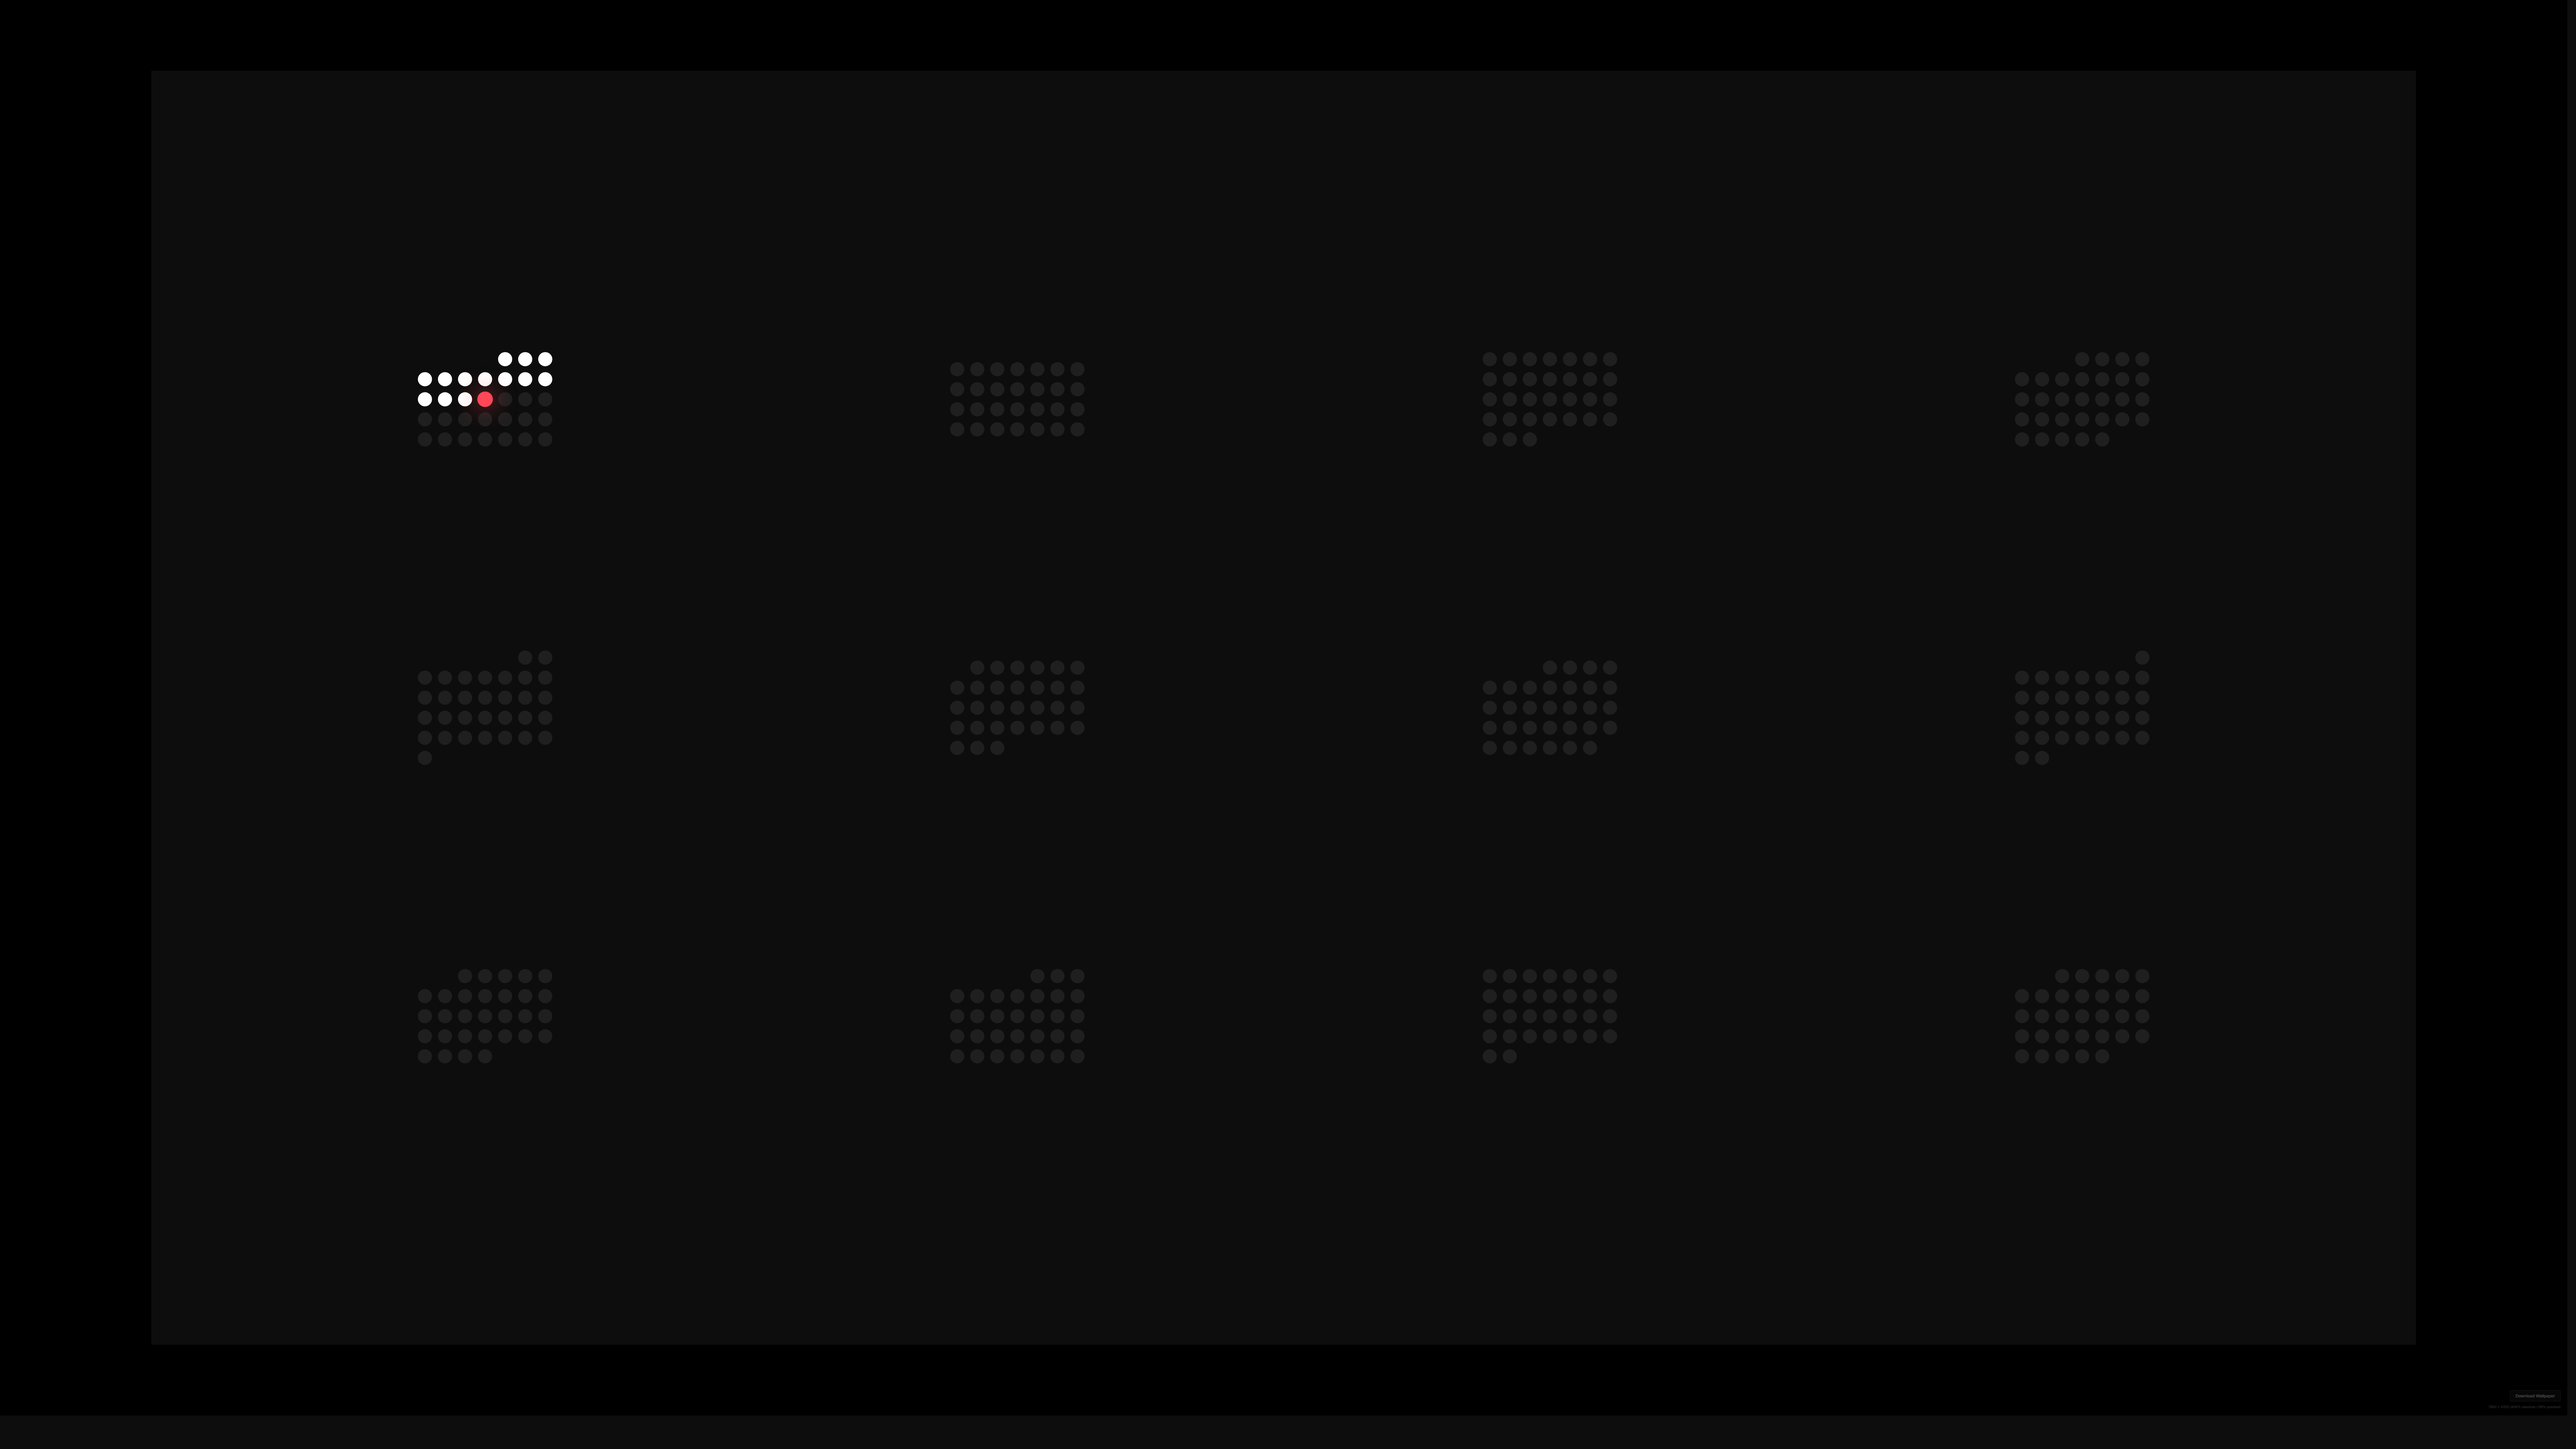
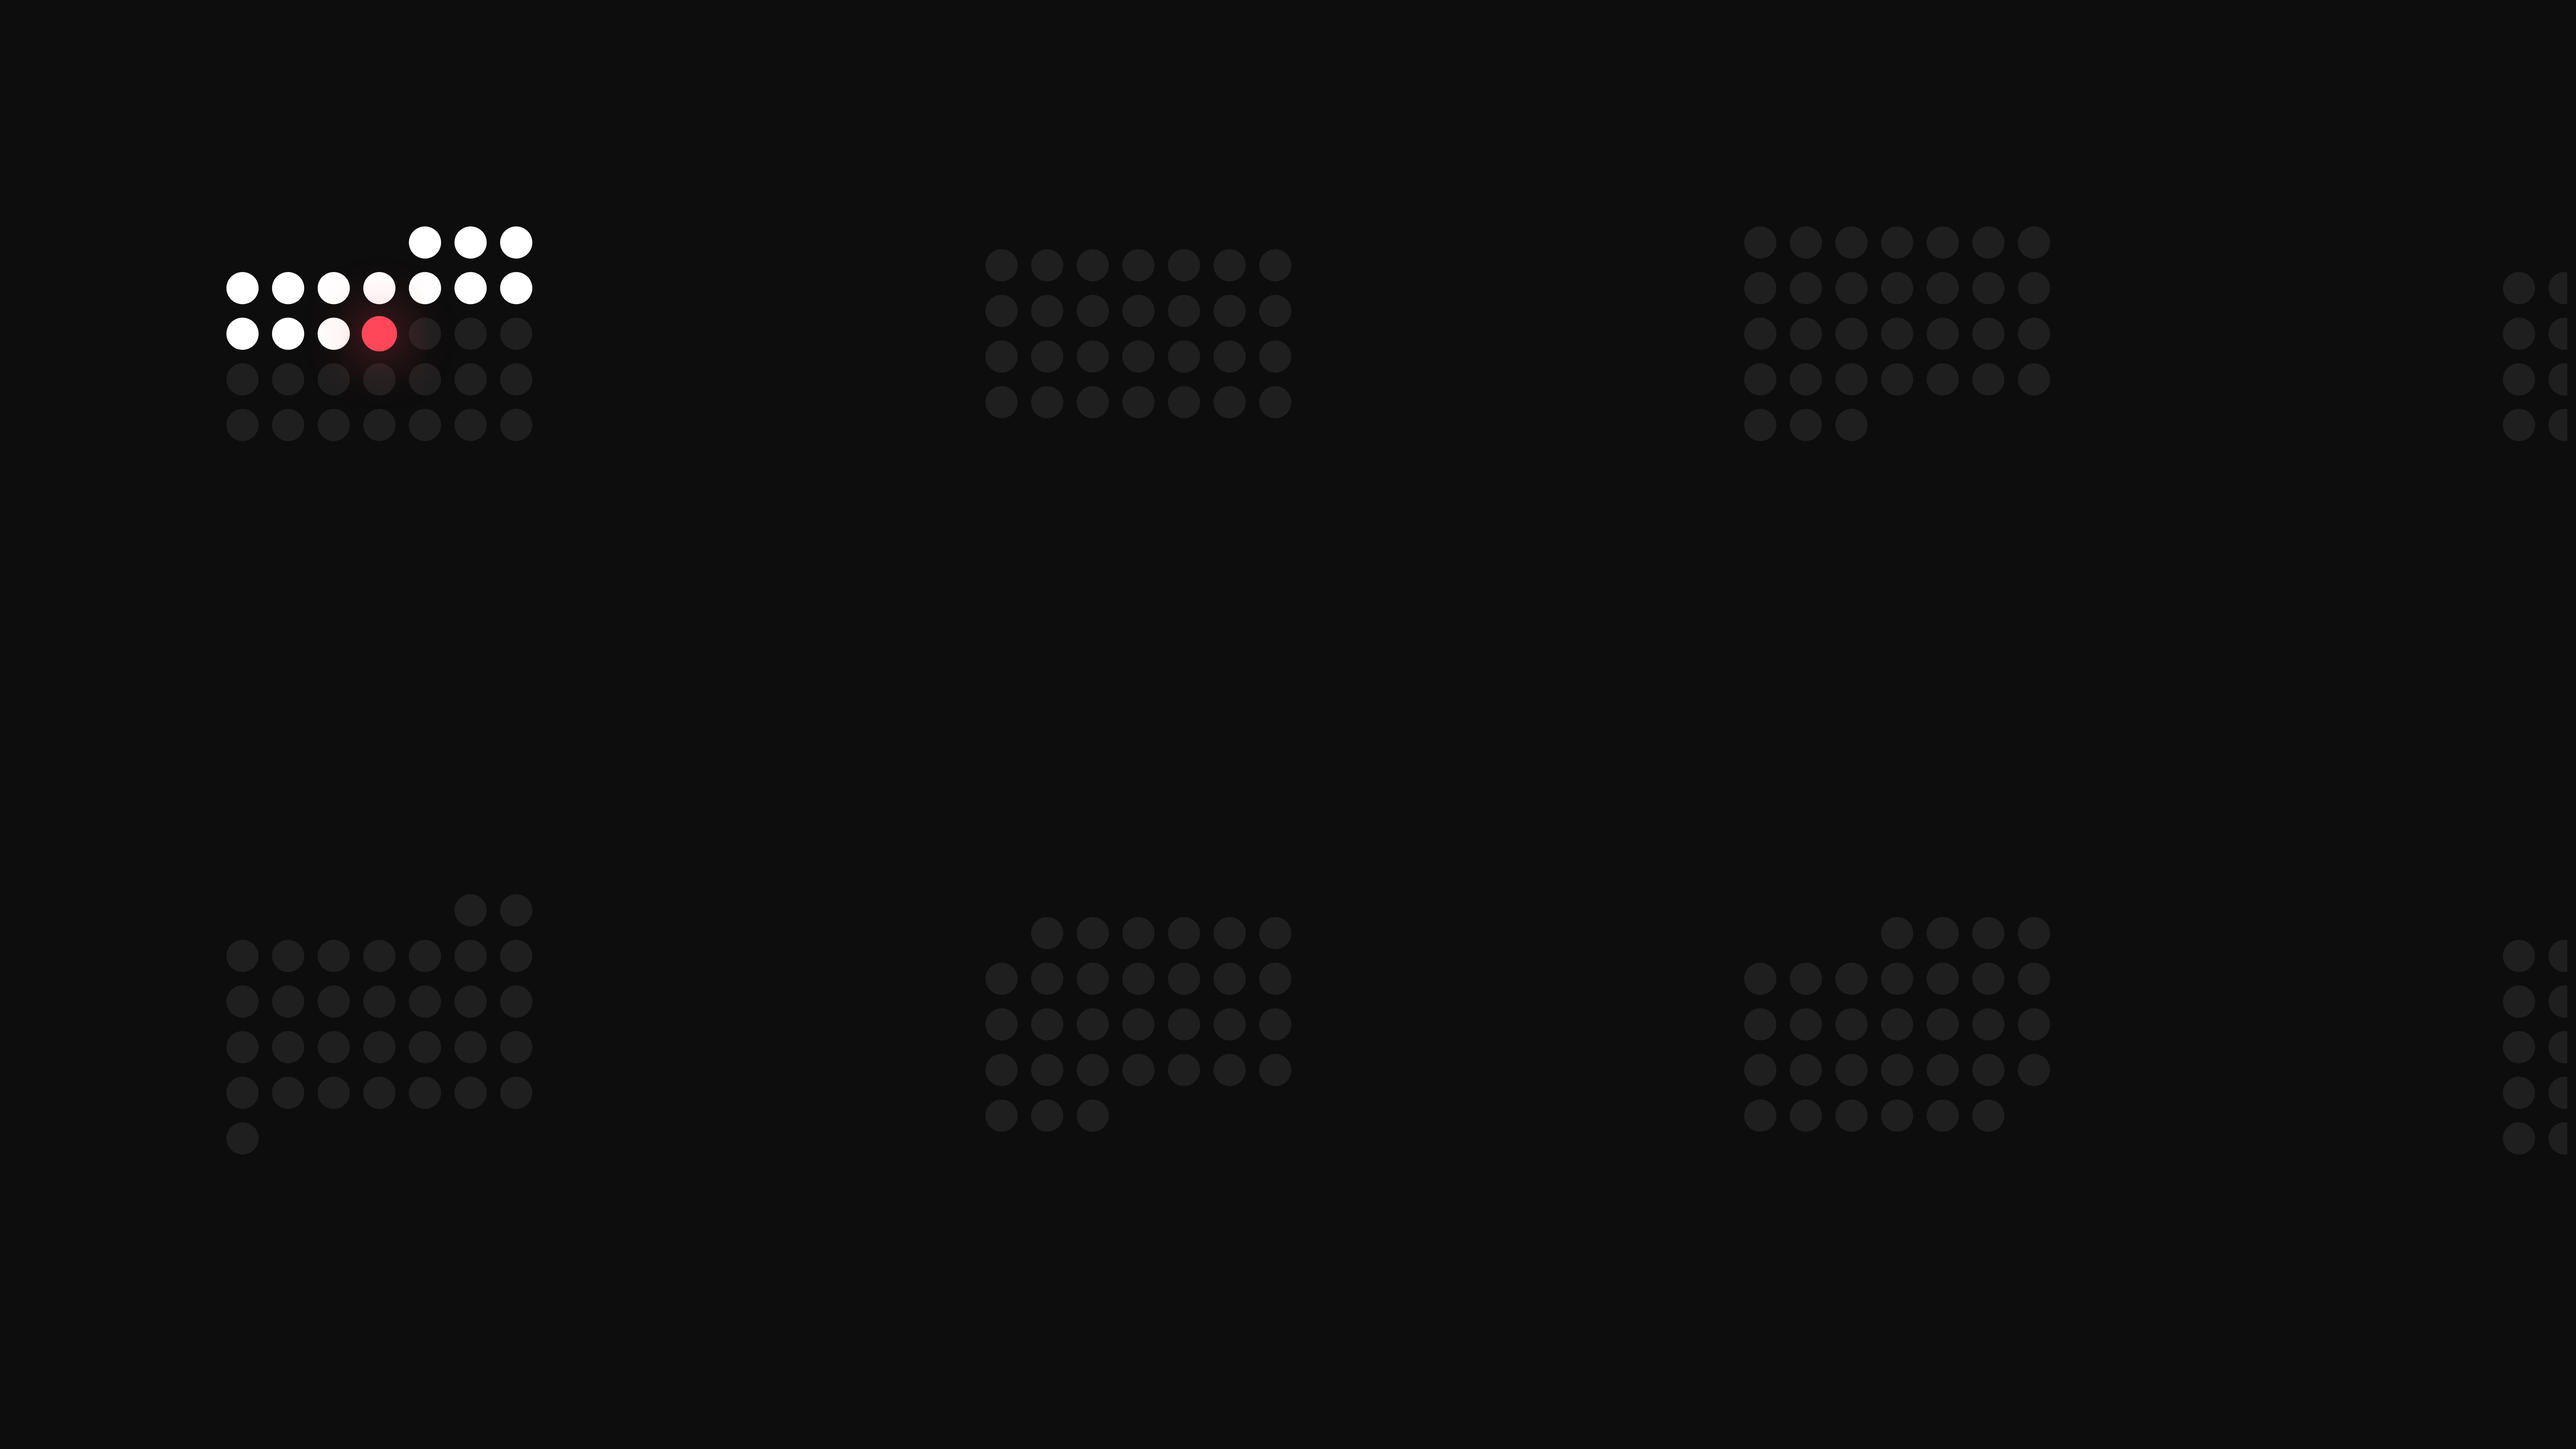
update headless approach

Changed region(s): [[0.0625, 0.1562, 0.2188, 0.2812], [0.9688, 0.625, 1.0, 0.8125], [0.9688, 0.1875, 1.0, 0.3125]]

diff --git a/dotter.js b/dotter.js
@@ -15,18 +15,27 @@ function dotter() {
 
     const resParam = urlParams.get('res');
     let targetW = parseInt(urlParams.get('w')) || (resShortcuts[resParam]?.w) || window.innerWidth;
+    let targetH = parseInt(urlParams.get('h')) || (resShortcuts[resParam]?.h) || window.innerHeight;
 
-    // Calculate base scaling factor (1920px as reference)
-    const baseScale = targetW / 1920;
+    // Calculate "Best Fit" Scale
+    // A month grid is roughly 7 dots wide and 6-9 "units" high (including header/weeks)
+    // We add buffer for gaps between months.
+    const horizontalUnits = (4 * 7) + 8; // 4 months + gaps/margins
+    const verticalUnits = (3 * 10) + 6;  // 3 months + headers/gaps/margins
+
+    const scaleW = targetW / (horizontalUnits * 12);
+    const scaleH = targetH / (verticalUnits * 12);
+
+    // Default to the smaller scale to ensure it fits the screen
+    const bestFitScale = Math.min(scaleW, scaleH);
     const manualScale = parseFloat(urlParams.get('scale')) || 1.0;
-    const finalScale = baseScale * manualScale;
+    const finalScale = bestFitScale * manualScale;
 
-    // Apply dynamic scaling to CSS variables for density
-    grid.style.setProperty('--dot-size', `${Math.round(12 * finalScale)}px`);
-    grid.style.setProperty('--dot-gap', `${Math.round(5 * finalScale)}px`);
-    grid.style.setProperty('--header-font', `${Math.round(10 * finalScale)}px`);
-    grid.style.setProperty('--week-font', `${Math.round(7 * finalScale)}px`);
-    grid.style.setProperty('--month-padding', `${Math.round(2 * finalScale)}vh`);
+    // Apply dynamic scaling to CSS variables
+    grid.style.setProperty('--dot-size', `${Math.max(2, Math.floor(12 * finalScale))}px`);
+    grid.style.setProperty('--dot-gap', `${Math.max(1, Math.floor(5 * finalScale))}px`);
+    grid.style.setProperty('--header-font', `${(10 * finalScale).toFixed(1)}px`);
+    grid.style.setProperty('--week-font', `${(7 * finalScale).toFixed(1)}px`);
 
     const currentYear = today.getFullYear();
     const monthNames = [

diff --git a/style.css b/style.css
@@ -15,7 +15,6 @@ main.grid {
     --dot-gap: 5px;
     --header-font: 10px;
     --week-font: 7px;
-    --month-padding: 2vh;
 
     display: grid;
     grid-template-columns: repeat(4, 1fr);
@@ -24,6 +23,9 @@ main.grid {
     height: 100vh;
     box-sizing: border-box;
     background-color: #0d0d0d;
+    place-items: center;
+    /* Ensure internal groups are centered in their cells */
+    padding: 2vh 2vw;
 }
 
 .month-container {
@@ -31,7 +33,8 @@ main.grid {
     flex-direction: column;
     align-items: center;
     justify-content: center;
-    padding: var(--month-padding);
+    width: 100%;
+    height: 100%;
 }
 
 .month-header {
@@ -55,6 +58,7 @@ main.grid {
     display: grid;
     grid-template-columns: repeat(7, var(--dot-size));
     grid-gap: var(--dot-gap);
+    justify-content: center;
 }
 
 .weekday-label {
